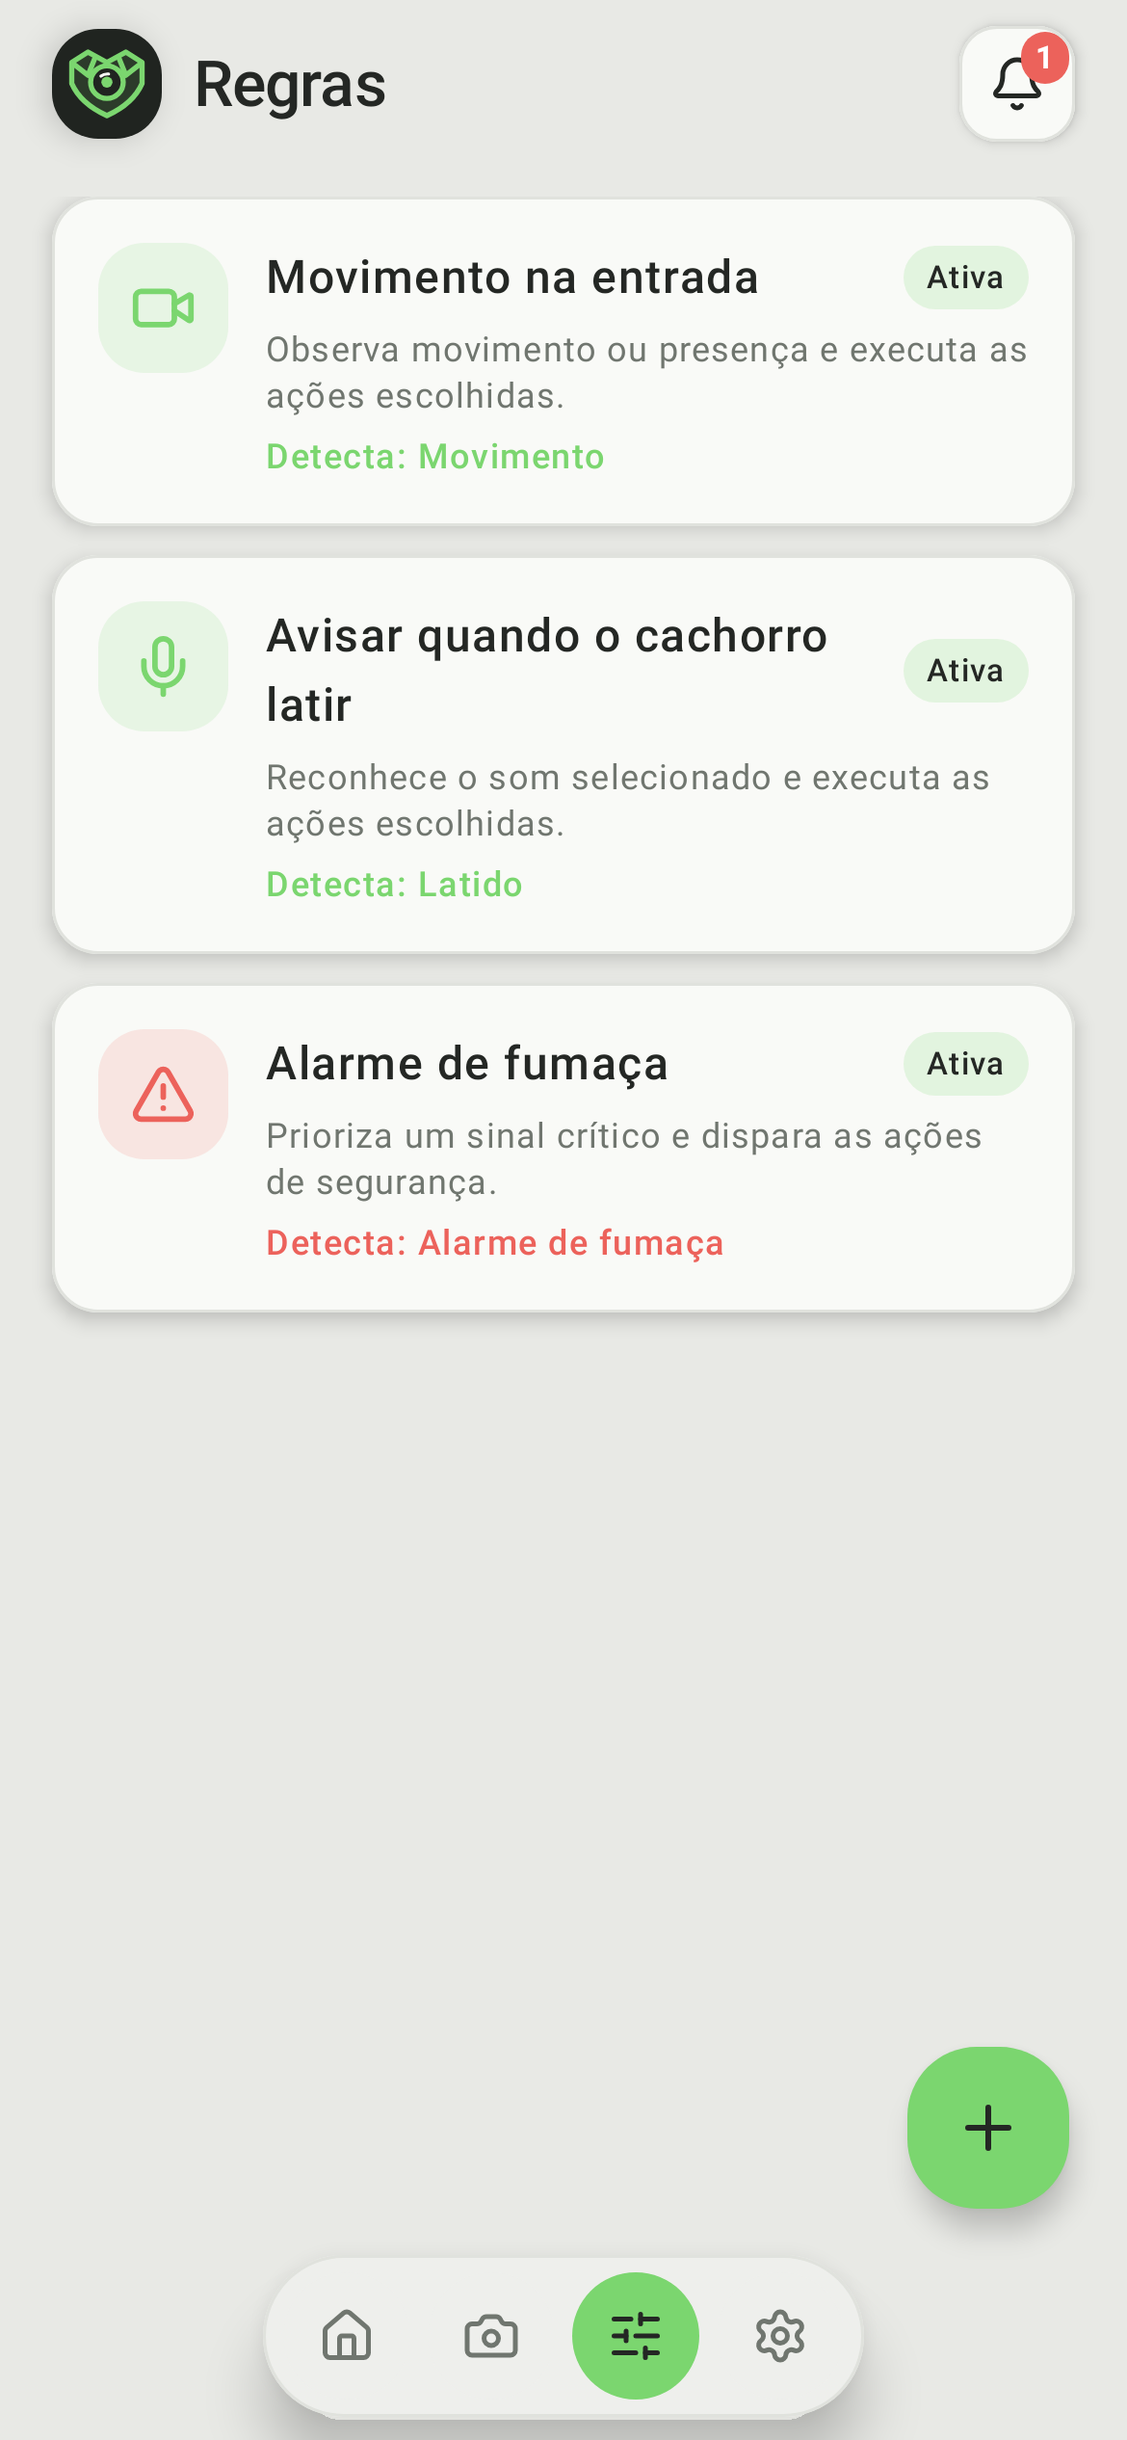
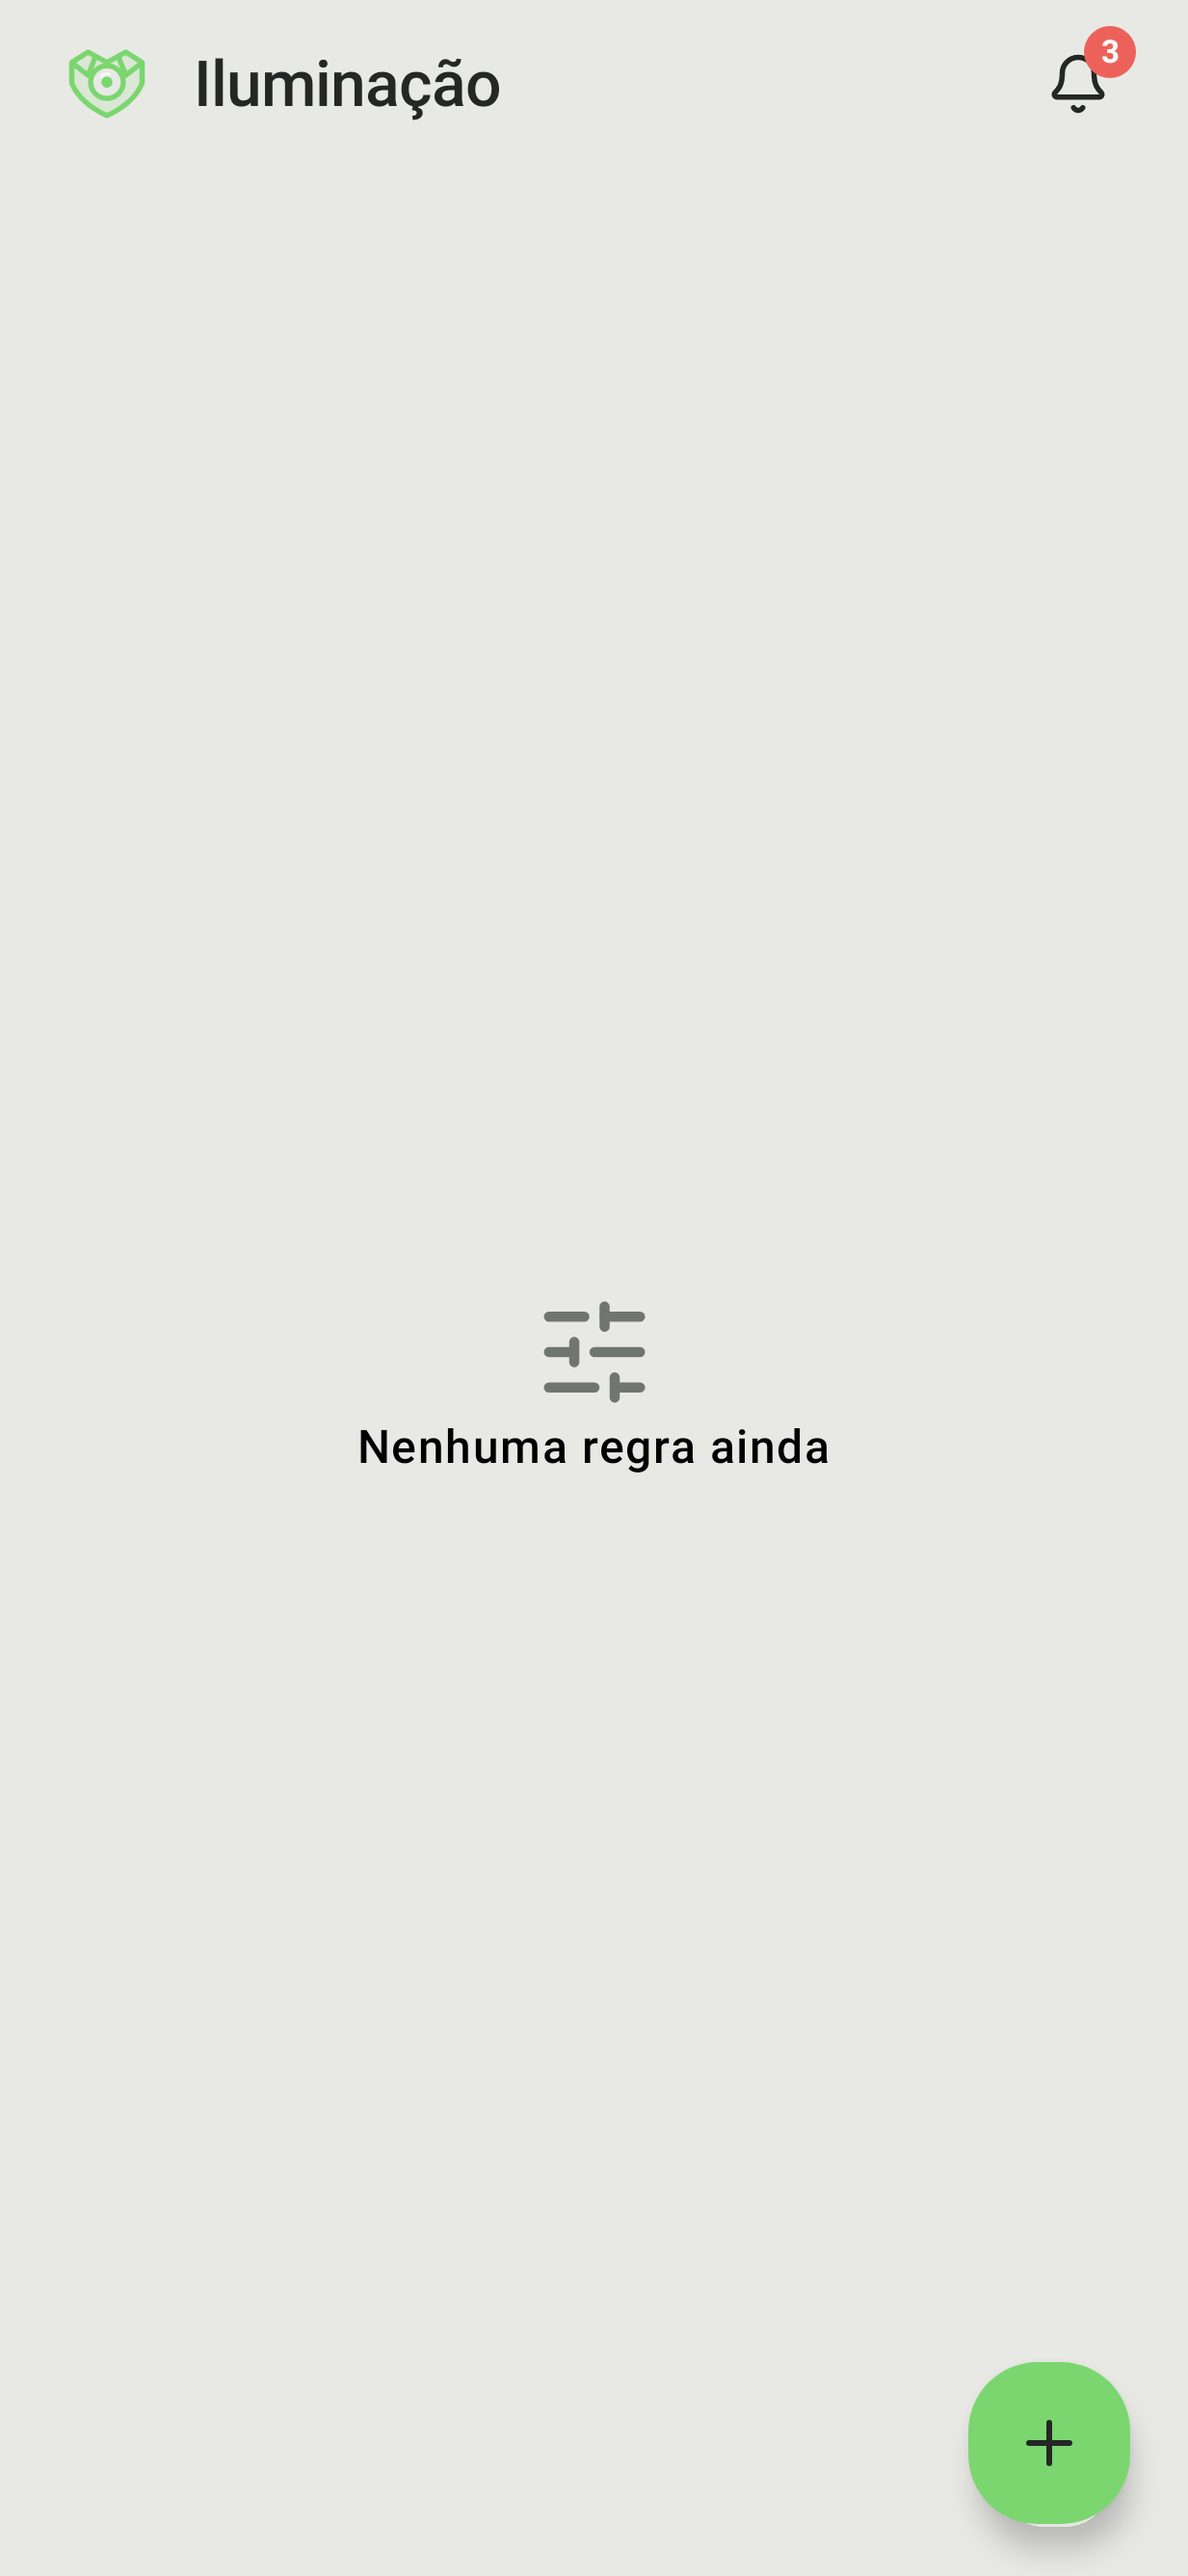
feat(landing): capturas de regras do app, em portugues, claro e escuro

diff --git a/mobile/app/src/test/java/com/ferforastieri/valkyris/feature/lights/LandingScreenshotsTest.kt b/mobile/app/src/test/java/com/ferforastieri/valkyris/feature/lights/LandingScreenshotsTest.kt
@@ -98,6 +98,8 @@ class LandingScreenshotsTest {
     @Test fun camerasClara() { tela("light") { CamerasContent(cameras()) }; compose.onRoot().captureRoboImage("build/screenshots/landing-cameras-light.png") }
     @Test fun camerasEscura() { tela("dark") { CamerasContent(cameras()) }; compose.onRoot().captureRoboImage("build/screenshots/landing-cameras-dark.png") }
     // LandingTelas
+    @Test fun rulesClara() { tela("light") { com.ferforastieri.valkyris.feature.rules.RulesContent(rules = emptyList()) }; compose.onRoot().captureRoboImage("build/screenshots/landing-rules-light.png") }
+    @Test fun rulesEscura() { tela("dark") { com.ferforastieri.valkyris.feature.rules.RulesContent(rules = emptyList()) }; compose.onRoot().captureRoboImage("build/screenshots/landing-rules-dark.png") }
     @Test fun eventsClara() { tela("light") { com.ferforastieri.valkyris.feature.events.EventsContent(events = listOf(com.ferforastieri.valkyris.core.model.ValkyrisEvent(id = "e1", cameraId = "cam-1", type = "pessoa", confidence = 0.93, occurredAt = "2026-10-17T14:02:00Z"), com.ferforastieri.valkyris.core.model.ValkyrisEvent(id = "e2", cameraId = "cam-2", type = "movimento", confidence = 0.81, occurredAt = "2026-10-17T13:40:00Z"), com.ferforastieri.valkyris.core.model.ValkyrisEvent(id = "e3", cameraId = "cam-1", type = "som", confidence = 0.77, occurredAt = "2026-10-17T12:15:00Z"))) }; compose.onRoot().captureRoboImage("build/screenshots/landing-events-light.png") }
     @Test fun eventsEscura() { tela("dark") { com.ferforastieri.valkyris.feature.events.EventsContent(events = listOf(com.ferforastieri.valkyris.core.model.ValkyrisEvent(id = "e1", cameraId = "cam-1", type = "pessoa", confidence = 0.93, occurredAt = "2026-10-17T14:02:00Z"), com.ferforastieri.valkyris.core.model.ValkyrisEvent(id = "e2", cameraId = "cam-2", type = "movimento", confidence = 0.81, occurredAt = "2026-10-17T13:40:00Z"), com.ferforastieri.valkyris.core.model.ValkyrisEvent(id = "e3", cameraId = "cam-1", type = "som", confidence = 0.77, occurredAt = "2026-10-17T12:15:00Z"))) }; compose.onRoot().captureRoboImage("build/screenshots/landing-events-dark.png") }
     @Test fun settingsClara() { tela("light") { com.ferforastieri.valkyris.feature.settings.SettingsContent(admin = true, permissionsReady = 0, permissionsTotal = 0, language = "", theme = "") }; compose.onRoot().captureRoboImage("build/screenshots/landing-settings-light.png") }
